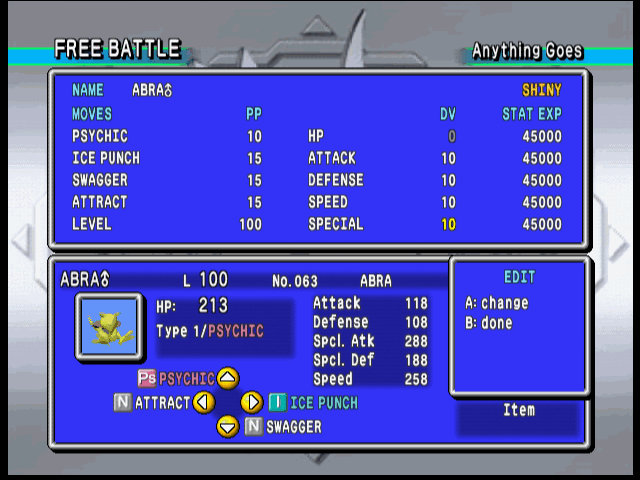
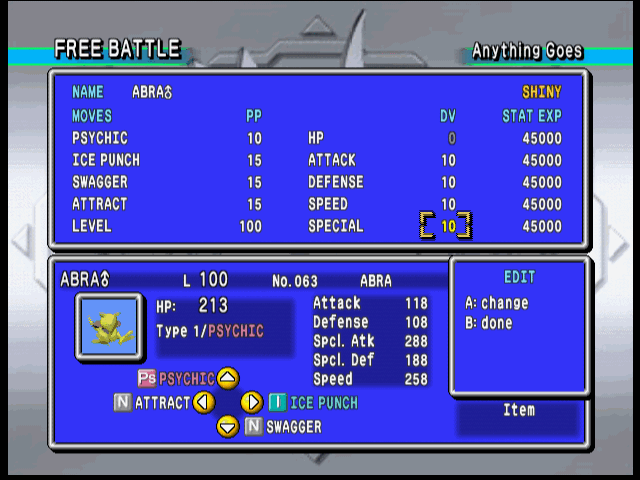
Editor: the game's bracket cursor, scroll bar and pointing hand
The field menu marks the field under the cursor with the brackets the stock
lists use (func_8004B09C), green while a number is grabbed. The move list
gets the stock scroll bar (func_81607440), its knob easing into place, and
the ENTER menu's hand (func_81608918) beside the chosen move.

Rows move down two pixels and the move names right to make room, so the
recorded screens and the guide's screenshots are redone.

diff --git a/mod/src/edit_draw.c b/mod/src/edit_draw.c
@@ -2,9 +2,9 @@
 
 /* Positions inside the editor window, relative to its top-left corner. Numbers are
  * right-aligned, so their X is where they end. */
-#define TITLE_Y 14
-#define HEADER_Y 38
-#define ROW_Y 60
+#define TITLE_Y 16
+#define HEADER_Y 40
+#define ROW_Y 62
 #define ROW_SPACING 22
 
 #define MOVE_X 26
@@ -19,8 +19,25 @@
 #define WORD_GAP 7
 #define NAME_X (MOVE_X + 60)
 
+/* The brackets around the field the cursor is on. Their corners stand clear of the text:
+ * a corner's width out to either side of it, and high enough that the upper and lower
+ * corners do not meet. A number's field is as wide as its longest value. */
+#define FIELD_MARGIN BRACKET_CORNER
+#define FIELD_RISE 7
+#define FIELD_HEIGHT 30
+#define DV_WIDTH 22
+#define STAT_EXP_WIDTH 48
+
+/* The move list, from the left: the scroll bar down the window's edge beside the rows,
+ * the hand, then the names. */
 #define LIST_ROW_Y 36
 #define LIST_ROW_SPACING 19
+#define LIST_BAR_X WINDOW_INSET
+#define LIST_BAR_Y 30
+#define LIST_BAR_HEIGHT (EDIT_WINDOW_HEIGHT - WINDOW_BORDER + WINDOW_INSET - LIST_BAR_Y)
+#define LIST_POINTER_X (LIST_BAR_X + SCROLL_BAR_WIDTH + 3)
+#define LIST_NAME_X (LIST_POINTER_X + POINTER_WIDTH + 4)
+#define LIST_COUNT_X (LIST_NAME_X + 118) /* where the cursor's place in the list ends */
 #define LIST_TYPE_X 236
 #define LIST_POWER_X 400
 #define LIST_ACCURACY_X 458
@@ -229,6 +246,54 @@ static void Edit_DrawFields(EditState *state, Pokemon *mon) {
     }
 }
 
+/* The cursor of the field menu: the brackets the stock lists use, around the field the
+ * cursor is on, gold as theirs are and green while its value is being changed. They go
+ * down before the text. */
+static void Edit_DrawFieldCursor(EditState *state, Pokemon *mon) {
+    s32 x = EDIT_WINDOW_X;
+    s32 y = EDIT_WINDOW_Y;
+    s32 width;
+
+    if (state->onName) {
+        x += NAME_X;
+        y += TITLE_Y;
+        width = Text_Width(MENU_FONT, 1, mon->nickname) + Text_Width(MENU_FONT, 1, Pokemon_GenderSymbol(mon));
+    } else {
+        y += ROW_Y + ROW_SPACING * state->row;
+        if (state->col == COL_MOVES) {
+            x += MOVE_X;
+            width = PP_X - MOVE_X;
+        } else if (state->col == COL_DV) {
+            x += DV_X - DV_WIDTH;
+            width = DV_WIDTH;
+        } else {
+            x += STAT_EXP_X - STAT_EXP_WIDTH;
+            width = STAT_EXP_WIDTH;
+        }
+    }
+    x -= FIELD_MARGIN;
+    width += 2 * FIELD_MARGIN;
+
+    if (state->mode == EDIT_ADJUST) {
+        Brackets_Draw(x, y - FIELD_RISE, width, FIELD_HEIGHT, &state->bracketPhase, 0x60, 0xFF, 0x60, TRUE);
+    } else {
+        Brackets_Draw(x, y - FIELD_RISE, width, FIELD_HEIGHT, &state->bracketPhase, 0xF0, 0xD4, 0x68, TRUE);
+    }
+}
+
+/* What the move list borrows from the stock lists and menus: a scroll bar, and the hand
+ * pointing at the row the cursor is on. They go down before the text. */
+static void Edit_DrawListCursor(EditState *state) {
+    s32 x = EDIT_WINDOW_X;
+    s32 y = EDIT_WINDOW_Y;
+
+    ScrollBar_Draw(x + LIST_BAR_X, y + LIST_BAR_Y, SCROLL_BAR_WIDTH, LIST_BAR_HEIGHT,
+                   (f32)state->scroll / SCROLL_UNITS, state->top > 0,
+                   state->top + EDIT_LIST_ROWS < state->count);
+    Pointer_Draw(x + LIST_POINTER_X, y + LIST_ROW_Y + LIST_ROW_SPACING * (state->cursor - state->top),
+                 &state->pointerTimer);
+}
+
 static void Edit_DrawMoveList(EditState *state, Pokemon *mon) {
     s32 x = EDIT_WINDOW_X;
     s32 y = EDIT_WINDOW_Y;
@@ -236,7 +301,7 @@ static void Edit_DrawMoveList(EditState *state, Pokemon *mon) {
     s32 row;
 
     Edit_Heading();
-    Text_Draw(x + MOVE_X, y + TITLE_Y, sPickMove);
+    Text_Draw(x + LIST_NAME_X, y + TITLE_Y, sPickMove);
     Text_Draw(x + LIST_TYPE_X, y + TITLE_Y, sType);
     Edit_DrawRight(x + LIST_POWER_X, y + TITLE_Y, sPower);
     Edit_DrawRight(x + LIST_ACCURACY_X, y + TITLE_Y, sAccuracy);
@@ -244,9 +309,9 @@ static void Edit_DrawMoveList(EditState *state, Pokemon *mon) {
 
     /* Position in the list, e.g. 12/45. */
     Edit_Grey();
-    Edit_DrawNumber(x + MOVE_X + 140, y + TITLE_Y, state->cursor + 1);
-    Text_Draw(x + MOVE_X + 142, y + TITLE_Y, sSlash);
-    Text_Draw(x + MOVE_X + 150, y + TITLE_Y, Edit_Digits(&buffer[11], state->count));
+    Edit_DrawNumber(x + LIST_COUNT_X, y + TITLE_Y, state->cursor + 1);
+    Text_Draw(x + LIST_COUNT_X + 2, y + TITLE_Y, sSlash);
+    Text_Draw(x + LIST_COUNT_X + 10, y + TITLE_Y, Edit_Digits(&buffer[11], state->count));
 
     for (row = 0; row < EDIT_LIST_ROWS && state->top + row < state->count; row++) {
         s32 index = state->top + row;
@@ -262,10 +327,10 @@ static void Edit_DrawMoveList(EditState *state, Pokemon *mon) {
         }
 
         if (move == EDIT_REMOVE) {
-            Text_Draw(x + MOVE_X, rowY, sRemove);
+            Text_Draw(x + LIST_NAME_X, rowY, sRemove);
             continue;
         }
-        Text_Draw(x + MOVE_X, rowY, Move_Name(move));
+        Text_Draw(x + LIST_NAME_X, rowY, Move_Name(move));
         Text_Draw(x + LIST_TYPE_X, rowY, Type_Name(Edit_MoveType(mon, move)));
         if (Edit_MovePower(mon, move) > 1) {
             Edit_DrawNumber(x + LIST_POWER_X, rowY, Edit_MovePower(mon, move));
@@ -384,6 +449,10 @@ void Edit_DrawWindow(DetailPanel *panel) {
     if (state->mode == EDIT_NAME) {
         gSPDisplayList(gDisplayListHead++, D_80094D90);
         Edit_DrawNameBoxes(state);
+    } else if (state->mode == EDIT_MOVE_LIST) {
+        Edit_DrawListCursor(state);
+    } else {
+        Edit_DrawFieldCursor(state, panel->pokemon);
     }
 
     gSPDisplayList(gDisplayListHead++, D_80094F50);

diff --git a/mod/tests/emu/test_editor.py b/mod/tests/emu/test_editor.py
@@ -153,6 +153,31 @@ class EditorTest(h.EmulatorTest):
         self.assertEqual(self.s.edit_state().mode, EditState.FIELDS)
         self.assertEqual(self.s.record().data, record.data)
 
+    def test_scroll_bar_follows_the_move_list(self):
+        self.start(*h.OPEN_EDITOR, *press("A", 20))
+        state = self.s.edit_state()
+        last_top = state.count - LIST_PAGE   # the first row showing when the list is at its end
+
+        # It opens where the list does, part of the way down with the Pokemon's move in view.
+        self.assertTrue(0 < state.top < last_top)
+        self.assertEqual(state.scroll, state.top * EditState.SCROLL_UNITS // last_top)
+
+        # The knob glides to where the list has gone, so give it time to arrive.
+        self.do(*press(RIGHT, 40))
+        state = self.s.edit_state()
+        self.assertTrue(0 < state.top < last_top)
+        self.assertEqual(state.scroll, state.top * EditState.SCROLL_UNITS // last_top)
+
+        self.do(*presses(RIGHT, state.count // LIST_PAGE), "wait 40")
+        state = self.s.edit_state()
+        self.assertEqual((state.cursor, state.top, state.scroll),
+                         (state.count - 1, last_top, EditState.SCROLL_UNITS))
+        screens.check(self, "list_end", self.s.shot("list_end"))
+
+        self.do(*presses(LEFT, state.count // LIST_PAGE + 1), "wait 40")
+        state = self.s.edit_state()
+        self.assertEqual((state.cursor, state.top, state.scroll), (0, 0, 0))
+
     def test_removing_and_adding_moves(self):
         self.start(*h.OPEN_EDITOR)
         moves, pp = self.s.record().moves, self.s.record().pp

diff --git a/mod/src/edit.c b/mod/src/edit.c
@@ -178,6 +178,7 @@ void Edit_Open(DetailPanel *panel) {
     state->row = 0;
     state->onName = FALSE;
     state->repeatTimer = 0;
+    state->bracketPhase = 0;
     state->panel = panel;
 }
 
@@ -238,6 +239,20 @@ static s32 Edit_MoveField(EditState *state, Pokemon *mon, s32 colStep, s32 rowSt
     return TRUE;
 }
 
+/* Where the scroll bar's knob belongs for the rows now showing. */
+static s32 Edit_ScrollTarget(EditState *state) {
+    s32 range = state->count - EDIT_LIST_ROWS;
+
+    return range > 0 ? state->top * SCROLL_UNITS / range : 0;
+}
+
+/* The knob does not jump with the list: each frame it covers half of what is left. */
+static void Edit_GlideScroll(EditState *state) {
+    s32 left = Edit_ScrollTarget(state) - state->scroll;
+
+    state->scroll += left / 2 != 0 ? left / 2 : left;
+}
+
 /* Fills the list with every move the species may know, in alphabetical order.
  * The first entry removes the move when the Pokemon would still have one left. */
 static void Edit_BuildList(EditState *state, Pokemon *mon) {
@@ -267,6 +282,8 @@ static void Edit_BuildList(EditState *state, Pokemon *mon) {
     if (state->top < 0) {
         state->top = 0;
     }
+    state->scroll = Edit_ScrollTarget(state);
+    state->pointerTimer = 0.0f;
 }
 
 static void Edit_RemoveMove(Pokemon *mon, s32 slot) {
@@ -452,6 +469,7 @@ static void Edit_UpdateList(EditState *state, Pad *pad, DetailPanel *panel) {
     s32 slot = state->row;
     s32 move;
 
+    Edit_GlideScroll(state);
     if (pad->pressed & BTN_B) {
         Sound_Play(SOUND_CANCEL);
         state->mode = EDIT_FIELDS;

diff --git a/mod/include/game.h b/mod/include/game.h
@@ -232,6 +232,25 @@ char *func_816087C8(Pokemon *mon); /* the gender symbol as a string, empty when 
 #define WINDOW_INSET 8
 #define WINDOW_BORDER 19
 
+/* --- Cursors and the scroll bar, as the stock lists and menus draw them --- */
+
+/* Four corner brackets around a rectangle, breathing in and out by two pixels. `phase`
+ * is the caller's; one call moves it on an eighth of a cycle when `animate` is set. */
+s32 func_8004B09C(s32 x, s32 y, s32 width, s32 height, u16 *phase, u8 r, u8 g, u8 b, s32 animate);
+#define Brackets_Draw func_8004B09C
+#define BRACKET_CORNER 16 /* a corner is this wide, and a pixel less high */
+
+/* The pointing hand, sliding up to 6 pixels right and back. `timer` is the caller's. */
+void func_81608918(s32 x, s32 y, f32 *timer);
+#define Pointer_Draw func_81608918
+#define POINTER_WIDTH 38 /* the hand, plus how far it slides */
+
+/* A vertical scroll bar with its knob at `position`, 0 for the top to 1 for the bottom.
+ * The last two arguments are what the stock lists pass; the function ignores them. */
+void func_81607440(s32 x, s32 y, s32 width, s32 height, f32 position, s32 canScrollUp, s32 canScrollDown);
+#define ScrollBar_Draw func_81607440
+#define SCROLL_BAR_WIDTH 19
+
 /* --- Drawing (main segment) --- */
 
 extern Gfx *D_800D0510;

diff --git a/mod/include/edit.h b/mod/include/edit.h
@@ -48,7 +48,12 @@ typedef struct EditState {
     /* 0x10F */ u8 keysMeasured;
     /* 0x110 */ char name[MAX_NAME_LENGTH + 1]; /* as typed; written to the record on END */
     /* 0x11B */ u8 keyInset[NUM_PAGES][KEY_ROWS][KEY_COLS]; /* centres each key in its cell */
-} EditState; /* size = 0x164 */
+    /* 0x164 */ u16 bracketPhase; /* where the brackets around a field are in their cycle */
+    /* 0x166 */ s16 scroll;       /* the scroll bar's knob, 0 to SCROLL_UNITS, gliding to where the list is */
+    /* 0x168 */ f32 pointerTimer; /* where the hand in the move list is in its slide */
+} EditState; /* size = 0x16C */
+
+#define SCROLL_UNITS 256
 
 /* The editor window, drawn over the party box. The stock detail panel below it stays
  * visible and shows the Pokemon as it will be. */

diff --git a/mod/tests/emu/harness.py b/mod/tests/emu/harness.py
@@ -136,9 +136,10 @@ class Record:
 class EditState:
     """The editor's state; see `EditState` in mod/include/edit.h."""
 
-    SIZE = 0x164
+    SIZE = 0x16C
     OFF, FIELDS, ADJUST, MOVE_LIST, NAME = range(5)
     COL_MOVES, COL_DV, COL_STAT_EXP = range(3)
+    SCROLL_UNITS = 256   # the scroll bar's knob at the bottom
 
     def __init__(self, data: bytes):
         self.mode, self.col, self.row = data[0], data[1], data[2]
@@ -148,6 +149,7 @@ class EditState:
         self.list = list(data[0x10:0x10 + max(self.count, 0)])
         self.key_col, self.key_row, self.name_length = data[0x10C], data[0x10D], data[0x10E]
         self.name = data[0x110:0x11B].split(b"\0")[0]
+        self.scroll, = struct.unpack_from(">h", data, 0x166)
 
 
 class Panel:

diff --git a/mod/NOTES.md b/mod/NOTES.md
@@ -74,6 +74,13 @@ Plan: `C:\Users\Alex\.claude\plans\i-want-to-build-delightful-lecun.md`.
   - Checked: the list holds "No item" and the 42 in the game's order; Leftovers, eight
     rows down, was chosen for Abra and is in the party record. Names and descriptions
     draw, and the list scrolls, as it does in the stock game for a Game Pak's items.
+- **The stock cursors.** The editor borrows what the game's own lists and menus draw:
+  the brackets that breathe around the chosen entry mark the field the cursor is on
+  (gold, and green while a number is grabbed), and the move list has the scroll bar
+  down its left edge and the pointing hand of the ENTER menu. See "UI library pieces".
+  - Checked: the brackets around a move, the name, a DV and a Stat Exp value, clear of
+    the text at both ends of their cycle; the bar's knob at the top, part way and at the
+    bottom of Abra's 51 moves, and gliding there after a page.
 - Nothing has been run on standalone ares or hardware yet. BizHawk's Ares64 core is the
   same emulation core as standalone ares.
 - Known gaps: an edit lives in the list cell, so scrolling the rental far away and back
@@ -392,6 +399,17 @@ UI library pieces used (fragment 11):
 | `func_816073A0(rect)` / `func_81607408()` | clip to a window's inside / to the full screen |
 | `Gfx_FillRectRgb(x, y, w, h, r, g, b)` | filled rectangle, after `gSPDisplayList(D_800D0510++, D_80094D90)` |
 | `func_80049148(font, 1, string)` | width of a string |
+| `func_81607440(x, y, w, h, position, …)` | vertical scroll bar: the trough (`func_816054D8`) and a 16 x 20 knob whose middle runs from `y + 13` to `y + h - 13` as `position` goes from 0 to 1. Clips to itself and leaves the clip at the full screen. The stock lists pass two more arguments, whether there is more above and below (`func_8160762C`), which it never reads |
+| `func_81608918(x, y, &timer)` | the pointing hand (`func_8004AF18`, main segment), sliding 6 pixels right and back every 24 frames; `timer` is an `f32` the caller keeps. About 32 pixels wide, drawn at the text's own y |
+| `func_8004B09C(x, y, w, h, &phase, r, g, b, animate)` | main segment: four corner brackets around a rectangle, moving in and out by 2 pixels on a sine. A corner is 16 x 15, so they stay apart from 30 pixels of height up. `phase` is a `u16` that each call moves on by 0x2000 when `animate` is set. `func_8004B314(x, y, w, h)` is the same in the stock gold (`F0 D4 68`) on a phase shared by every caller |
+
+The stock ITEM list (`func_81305C54`) is where these were read from: the bar at the
+window's inside left edge, 19 wide and as high as the inside; names at `x + 0x26 +
+172 * column`, `y + 0x12 + 28 * row`; and the brackets 157 x 36, starting 5 pixels up and
+left of the name. The editor's rows are 22 apart, too close for brackets that tall to miss
+the next row's text, so its brackets stand a corner's width out to either side of a field
+instead. The knob in the stock list eases towards its place, and the editor's does too
+(`EditState.scroll`, halving the distance each frame).
 
 The font has no `<` or `>` glyphs. The ENTER box's inside is `x + 0x198`, `y + 9`,
 129 x 128, colour `#3333F8`; the editor paints its key hints there.

diff --git a/mod/README.md b/mod/README.md
@@ -44,7 +44,9 @@ rental tab (**R**), press A on a rental, and choose **EDIT** under Yes / No / IT
 two-player battle each player edits in turn with their own controller.
 
 The editor covers the party box; the game's own panel underneath shows the Pokémon as it
-will be, with stats recalculated as you change things.
+will be, with stats recalculated as you change things. The field the cursor is on has the
+game's own brackets around it, which turn green while you are changing a number. The move
+list has a scroll bar, and a hand points at the move the cursor is on.
 
 | Where | Button | Does |
 |---|---|---|
@@ -110,7 +112,7 @@ A registered team keeps its edits.
 ## What has been tested
 
 Everything below was run in BizHawk 2.x with its Ares64 core, driven by scripts. Most of
-it is now an automated suite (`mod/tests/emu`, 25 scenarios) that plays the editor and
+it is now an automated suite (`mod/tests/emu`, 26 scenarios) that plays the editor and
 checks the game's memory afterwards; see "Tests" in [NOTES.md](NOTES.md).
 
 - Moves, level, DVs and Stat Exp edited and carried into a battle.
